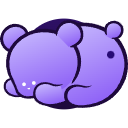
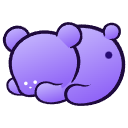
feat: v1.1.0 — こすくま文字保護+アイコン拡大
- 「こすくま」「こす.くま」「kosukuma」「kosu.kuma」の文字だけ吸い込まない
- 文字単位の保護（「こすくまくんは可愛い」→「こすくま」だけ残る）
- アイコンを背景円なしで枠いっぱいに拡大
- モードパネルUI削除（シンプルに保護のみ）

Changed region(s): [[0.0, 0.125, 1.0, 0.875]]

diff --git a/content.js b/content.js
@@ -50,6 +50,9 @@ let raf = null, ambId = null, ambCnt = 0;
 let lastTs = 0, samplePhase = 0, prevMx = 0, prevMy = 0;
 let totalAbsorbed = 0;
 
+/* ==== こすくま保護 ==== */
+const KOSUKUMA_RE = /こすくま|こす\.くま|kosukuma|kosu\.kuma/i;
+
 /* 階段式成長テーブル: [吸収数, ジャンプ先サイズ] */
 const GROWTH_STEPS = [
   [90,    28],
@@ -133,6 +136,7 @@ function activate() {
 /* ==== OFF — 復元アニメーション ==== */
 function off() {
   toggling = true; on = false;
+
 
   // ループ・入力を即停止
   if (raf) { cancelAnimationFrame(raf); raf = null; }
@@ -397,6 +401,55 @@ function updSz() {
 }
 
 /* ================================================================
+   モード — フィルタリング関数
+   ================================================================ */
+
+/** こすくま保護: 指定オフセットの文字が保護ワードの一部か判定 */
+function isProtectedChar(tn, offset) {
+  // テキストノード自体と親・祖父要素のテキストを探索
+  const sources = [tn.textContent];
+  const p = tn.parentElement;
+  if (p) {
+    const pt = p.textContent;
+    if (pt.length < 500) sources.push(pt);
+    const gp = p.parentElement;
+    if (gp) {
+      const gt = gp.textContent;
+      if (gt.length < 500) sources.push(gt);
+    }
+  }
+
+  // テキストノード内でのオフセットを使って判定
+  const text = tn.textContent;
+  let match;
+  const re = new RegExp(KOSUKUMA_RE.source, KOSUKUMA_RE.flags + 'g');
+  while ((match = re.exec(text)) !== null) {
+    if (offset >= match.index && offset < match.index + match[0].length) return true;
+  }
+
+  // 親・祖父要素内で分割されたケース: テキストノードの前後のテキストを結合して判定
+  if (p) {
+    let accumulated = 0;
+    const walker = document.createTreeWalker(p, NodeFilter.SHOW_TEXT, null);
+    let n;
+    let fullText = '';
+    let globalOffset = -1;
+    while ((n = walker.nextNode())) {
+      if (n === tn) globalOffset = fullText.length + offset;
+      fullText += n.textContent;
+    }
+    if (globalOffset >= 0 && fullText.length < 500) {
+      const re2 = new RegExp(KOSUKUMA_RE.source, KOSUKUMA_RE.flags + 'g');
+      while ((match = re2.exec(fullText)) !== null) {
+        if (globalOffset >= match.index && globalOffset < match.index + match[0].length) return true;
+      }
+    }
+  }
+
+  return false;
+}
+
+/* ================================================================
    メインループ
    ================================================================ */
 function loop(ts) {
@@ -480,6 +533,9 @@ function peel() {
         const cpLen = cpLength(tn.textContent, offset);
         const ch = tn.textContent.slice(offset, offset + cpLen);
         if (ch && ch !== '\n' && ch !== '\r' && ch !== '\t' && ch.trim()) {
+          // こすくま保護: この文字がこすくまワードの一部ならスキップ
+          if (isProtectedChar(tn, offset)) continue;
+
           const rc = charRect(tn, offset, cpLen);
           if (rc && rc.width > 0.3 && rc.height > 0.3) {
             const pe = tn.parentElement;
@@ -1054,6 +1110,8 @@ function peelShadow(root) {
       const cpLen = cpLength(text, i);
       const ch = text.slice(i, i + cpLen);
       if (!ch.trim()) continue;
+      // こすくま保護: この文字が保護ワードの一部ならスキップ
+      if (isProtectedChar(node, i)) continue;
       const rc = charRect(node, i, cpLen);
       if (!rc || rc.width < 0.3 || rc.height < 0.3) continue;
       const span = eraseChar(node, i, cpLen);

diff --git a/styles.css b/styles.css
@@ -72,6 +72,7 @@
   animation: bh-shake 0.1s linear infinite !important;
 }
 
+
 /* ==== キーフレーム ==== */
 @keyframes bh-gulp {
   0% { transform: translate(var(--bh-x), var(--bh-y)) scale(1); }
